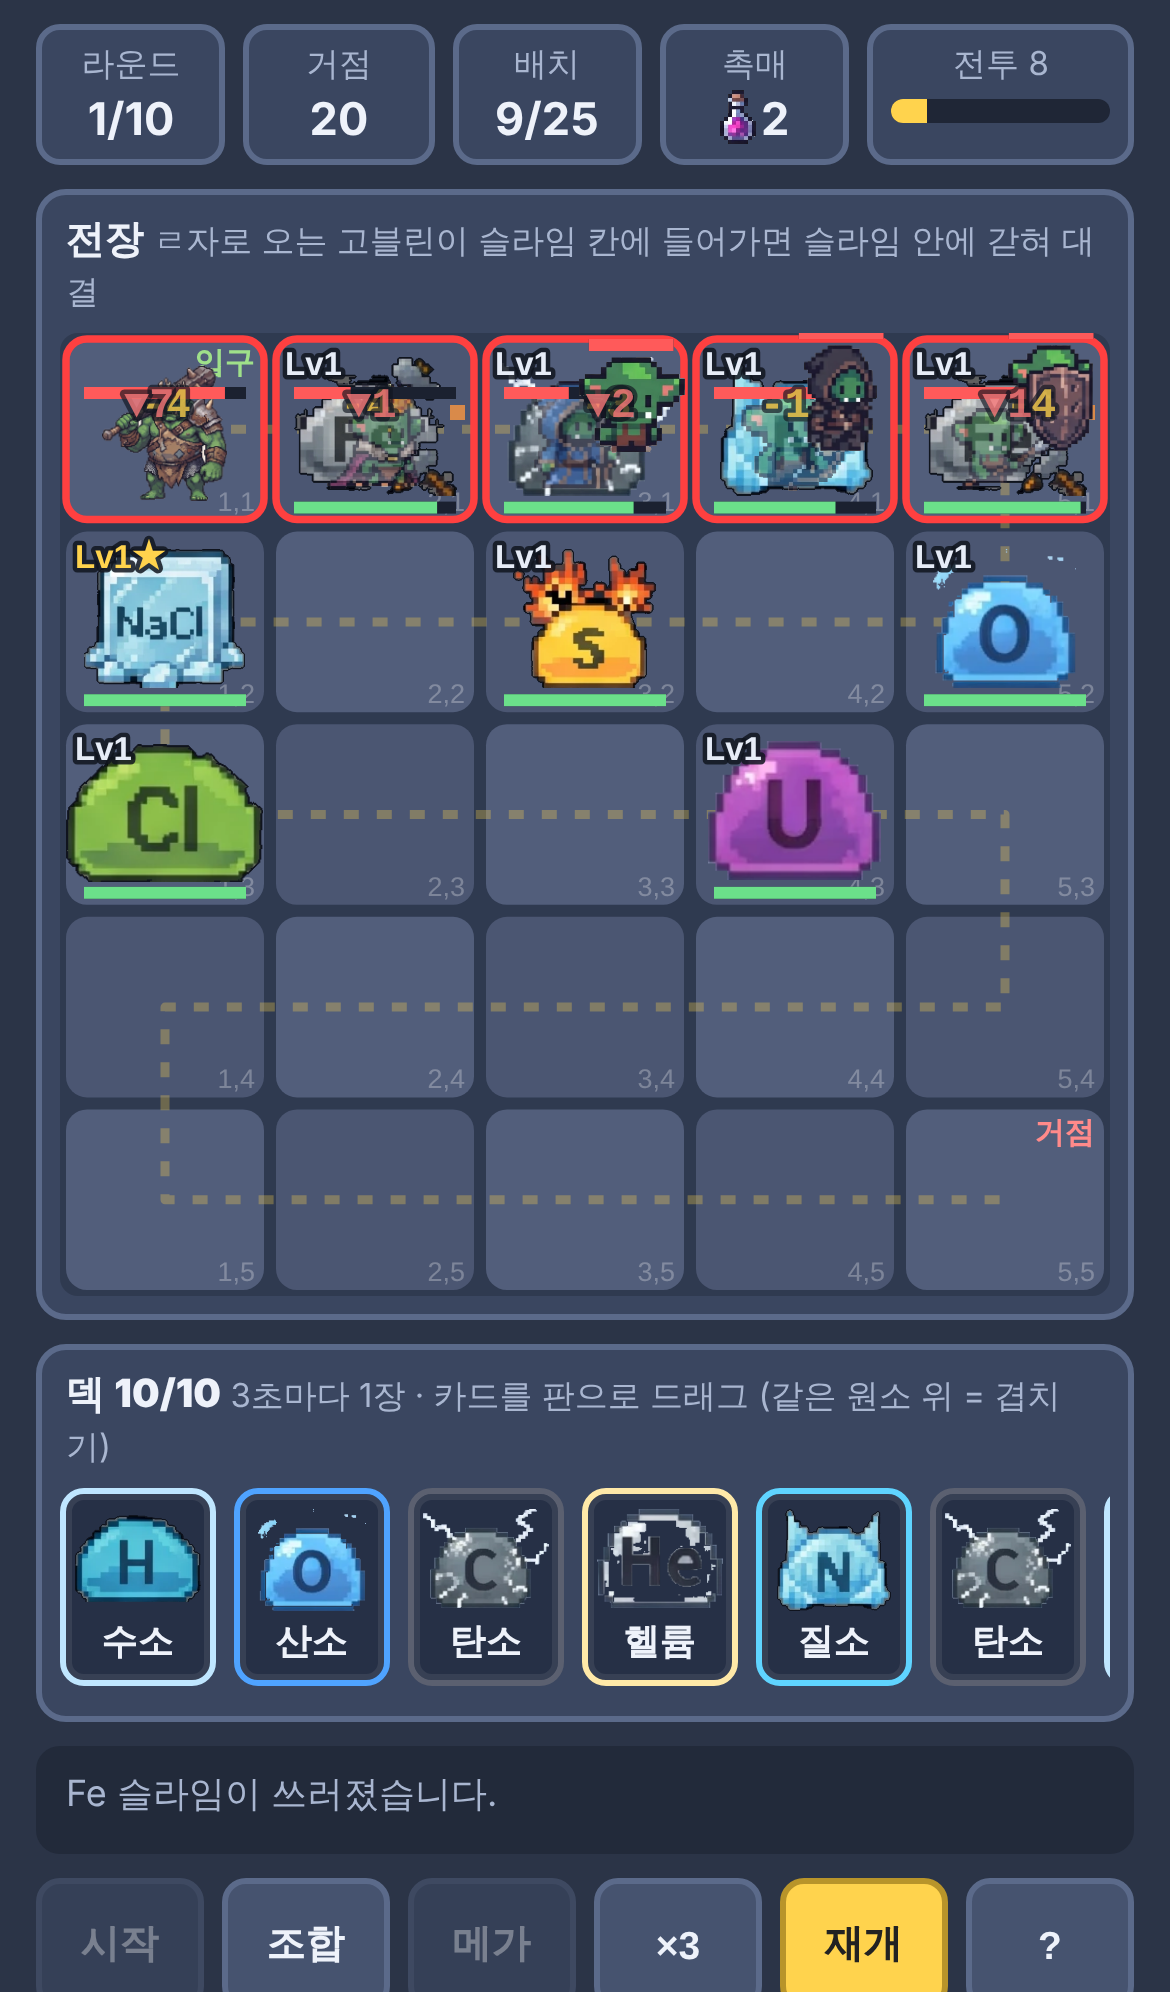
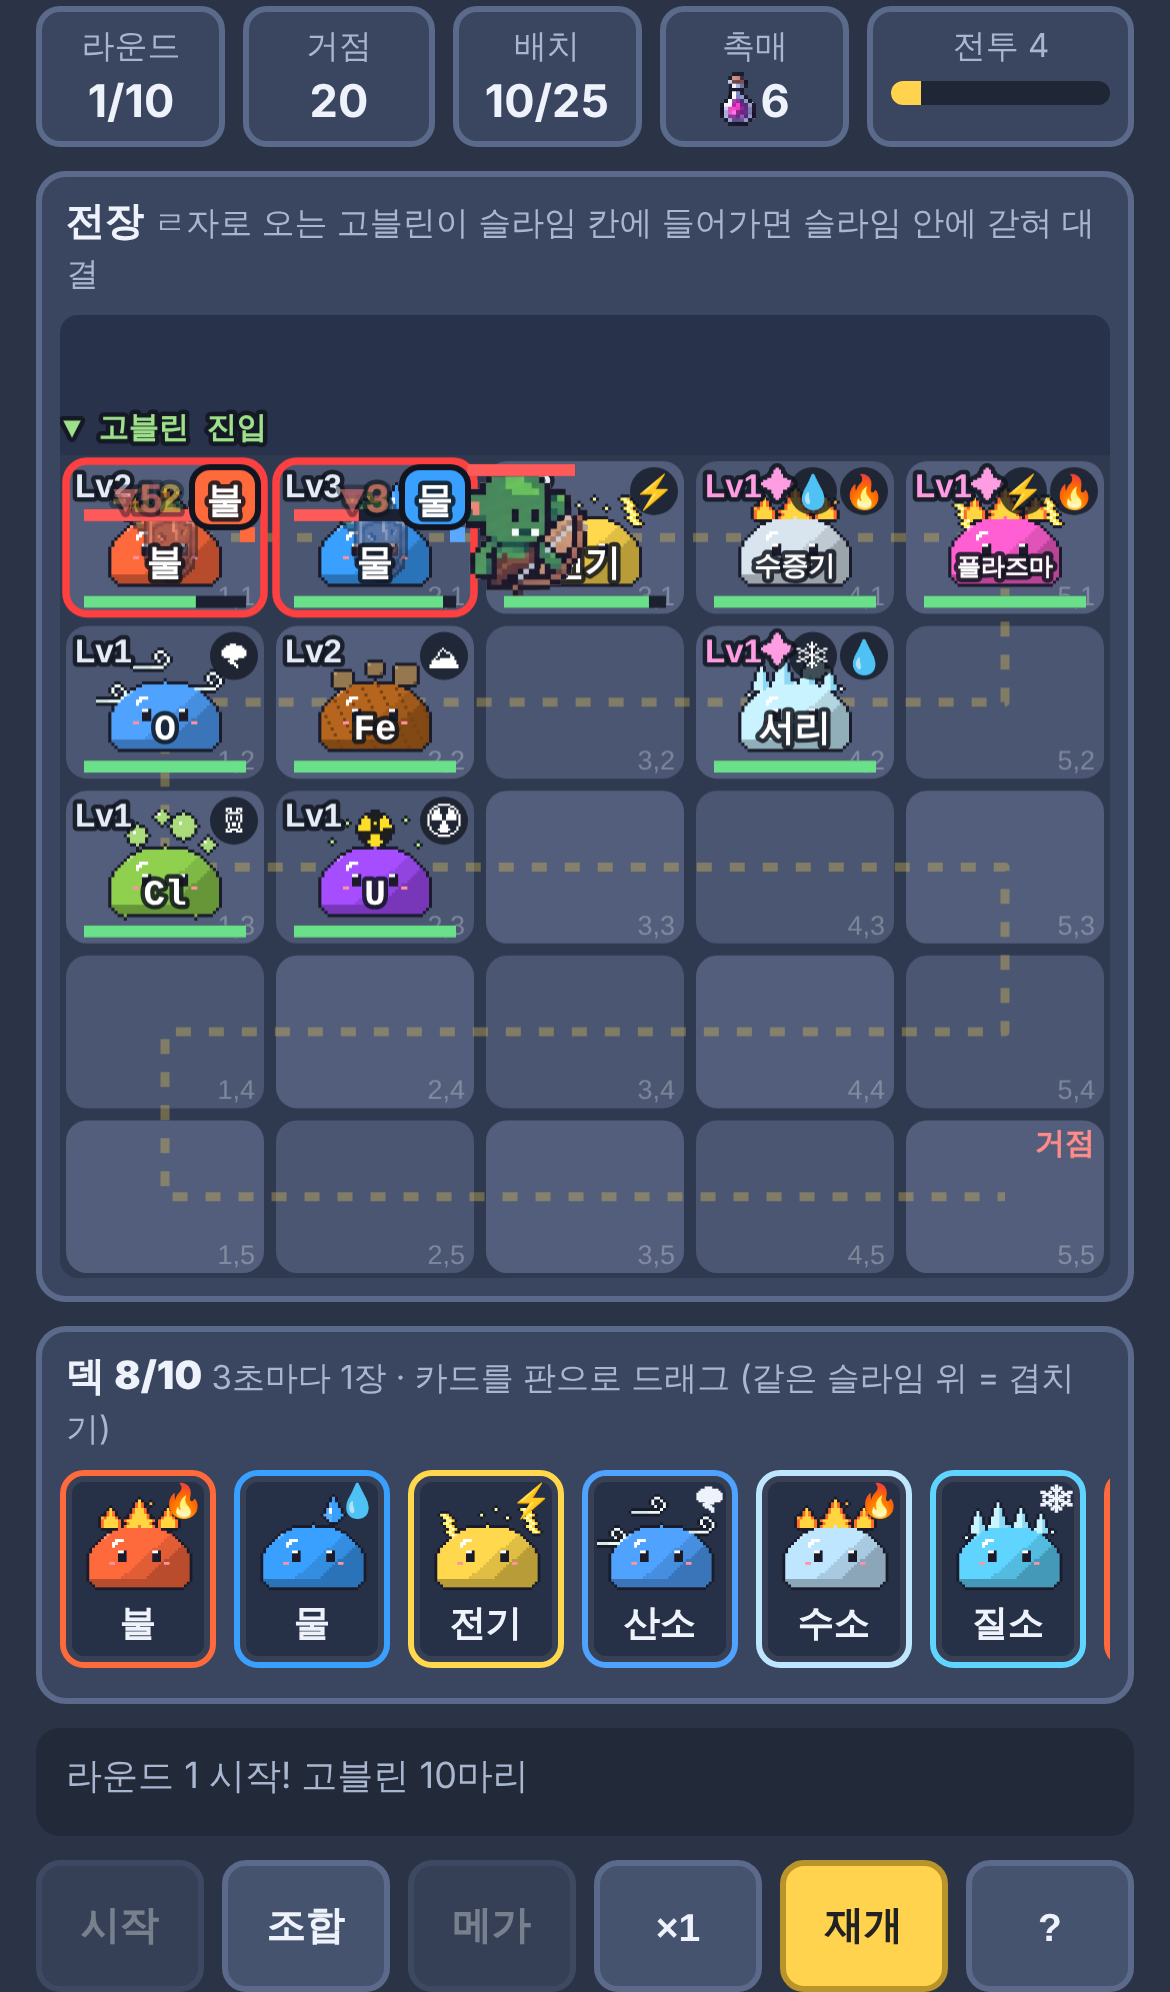
슬라임 이미지 전면 재생성 (코드 기반 픽셀아트, 화풍 통일)
- tools/gen_slimes.py: 44x36 픽셀 격자 생성기 (돔 몸통, 3단 음영, 눈·홍조, 외곽선)
  속성별 장식: 불꽃/물방울/번개/얼음가시/소용돌이/바위/독거품/방사능
- 29종 생성: 속성 3, 원소 10, 속성 합성 8, 화학 족보 6(반짝이), 혼합물, 메가(왕관)
- 그림에 글자를 넣지 않고 원소 기호·합성명은 게임이 덧그림
- extract_sprites.py는 고블린·아이템만 추출하도록 변경
- SW 캐시 v0.8.0 (assets 전체 목록 갱신)

Claude-Session: https://claude.ai/code/session_01VoCZM7DGkmV39ftWkPMHK3

diff --git a/src/sprites.js b/src/sprites.js
@@ -151,10 +151,14 @@ export function drawSprite(ctx, spr, cx, bottom, maxW, maxH) {
 // ---------- 참고 이미지에서 잘라낸 스프라이트 (assets/*.png) ----------
 // 로드 전이거나 실패하면 위의 도트 격자 스프라이트로 대체한다.
 const IMG = {};
+// 슬라임은 tools/gen_slimes.py가 생성(글자 없음, 원소 기호는 게임이 덧그림)
+const SLIME_KEYS = ['FIRE', 'WATER', 'ELEC', 'O', 'H', 'C', 'N', 'Fe', 'He', 'Na', 'Cl', 'S', 'U',
+  'STEAM', 'PLASMA', 'SHOCK', 'FROST', 'STORM', 'MUD', 'MIASMA', 'FUSION',
+  'H2O', 'CO2', 'NaCl', 'NH3', 'Fe2O3', 'H2SO4', 'mix', 'mega'];
 export const ASSET_NAMES = [
   'goblin', 'goblin_frozen', 'goblin_normal', 'goblin_fighter', 'goblin_mage', 'goblin_rider',
-  'goblin_archer', 'goblin_captain', 'goblin_giant', 'goblin_smart', 'goblin_giant_walk', 'slime_mega', 'slime_mix', 'slime_H2O', 'slime_NH3', 'slime_NaCl',
-  'slime_O', 'slime_H', 'slime_C', 'slime_N', 'slime_He', 'slime_Fe', 'slime_Na', 'slime_Cl', 'slime_S', 'slime_U',
+  'goblin_archer', 'goblin_captain', 'goblin_giant', 'goblin_smart', 'goblin_giant_walk',
+  ...SLIME_KEYS.map(k => 'slime_' + k),
 ];
 export function loadAssets(base = 'assets/') {
   return Promise.all(ASSET_NAMES.map(n => new Promise(res => {
@@ -175,17 +179,15 @@ function fit(ctx, img, cx, bottom, maxW, maxH) {
 
 // 반환: { rect, label } — label이 있으면 호출측이 이름표를 덧그린다(이미지에 글자가 없는 경우)
 export function drawSlimeArt(ctx, sl, cx, bottom, maxW, maxH) {
-  let img = null, label = null;
-  if (sl.kind === 'mega') { img = IMG.slime_mega; label = sl.label; }
-  else if (sl.kind === 'element') img = IMG['slime_' + sl.key];
-  else if (sl.kind === 'mixture') { img = IMG.slime_mix; label = sl.label; }
-  else if (IMG['slime_' + sl.key]) img = IMG['slime_' + sl.key];
-  else { img = IMG['slime_' + sl.els[0]]; label = sl.label; }
+  const img = sl.kind === 'mega' ? IMG.slime_mega
+    : sl.kind === 'mixture' ? IMG.slime_mix
+    : IMG['slime_' + sl.key] || IMG['slime_' + sl.els[0]] || null;
   if (!img) {
     const rect = drawSprite(ctx, slimeSprite(sl.color, sl.color2), cx, bottom, maxW, maxH * 0.85);
     return { rect, label: sl.label };
   }
-  return { rect: fit(ctx, img, cx, bottom, maxW, maxH), label };
+  // 생성 이미지에는 글자가 없으므로 항상 이름표(원소 기호/합성명)를 덧그린다
+  return { rect: fit(ctx, img, cx, bottom, maxW, maxH), label: sl.label };
 }
 
 // 빙결: 종류별 이미지에 얼음색을 덧입힌 사본을 캐시

diff --git a/sw.js b/sw.js
@@ -1,10 +1,50 @@
 // 앱 셸 캐시. 파일 변경 시 VERSION을 올리면 구버전 캐시가 삭제된다.
-const VERSION = 'esd-v0.7.0';
+const VERSION = 'esd-v0.8.0';
 const ASSETS = [
   './', './index.html', './manifest.json',
   './src/style.css', './src/main.js', './src/engine.js', './src/data.js', './src/sprites.js',
   './icons/icon.svg',
-  './assets/goblin.png', './assets/goblin_normal.png', './assets/goblin_fighter.png', './assets/goblin_mage.png', './assets/goblin_rider.png', './assets/goblin_archer.png', './assets/goblin_captain.png', './assets/goblin_giant.png', './assets/goblin_smart.png', './assets/goblin_giant_walk.png', './assets/item_catalyst.png', './assets/goblin_frozen.png', './assets/slime_mega.png', './assets/slime_mix.png', './assets/slime_H2O.png', './assets/slime_NH3.png', './assets/slime_NaCl.png', './assets/slime_O.png', './assets/slime_H.png', './assets/slime_C.png', './assets/slime_N.png', './assets/slime_He.png', './assets/slime_Fe.png', './assets/slime_Na.png', './assets/slime_Cl.png', './assets/slime_S.png', './assets/slime_U.png', './icons/icon-192.png', './icons/icon-512.png',
+  './assets/goblin.png',
+  './assets/goblin_archer.png',
+  './assets/goblin_captain.png',
+  './assets/goblin_fighter.png',
+  './assets/goblin_frozen.png',
+  './assets/goblin_giant.png',
+  './assets/goblin_giant_walk.png',
+  './assets/goblin_mage.png',
+  './assets/goblin_normal.png',
+  './assets/goblin_rider.png',
+  './assets/goblin_smart.png',
+  './assets/item_catalyst.png',
+  './assets/slime_C.png',
+  './assets/slime_CO2.png',
+  './assets/slime_Cl.png',
+  './assets/slime_ELEC.png',
+  './assets/slime_FIRE.png',
+  './assets/slime_FROST.png',
+  './assets/slime_FUSION.png',
+  './assets/slime_Fe.png',
+  './assets/slime_Fe2O3.png',
+  './assets/slime_H.png',
+  './assets/slime_H2O.png',
+  './assets/slime_H2SO4.png',
+  './assets/slime_He.png',
+  './assets/slime_MIASMA.png',
+  './assets/slime_MUD.png',
+  './assets/slime_N.png',
+  './assets/slime_NH3.png',
+  './assets/slime_Na.png',
+  './assets/slime_NaCl.png',
+  './assets/slime_O.png',
+  './assets/slime_PLASMA.png',
+  './assets/slime_S.png',
+  './assets/slime_SHOCK.png',
+  './assets/slime_STEAM.png',
+  './assets/slime_STORM.png',
+  './assets/slime_U.png',
+  './assets/slime_WATER.png',
+  './assets/slime_mega.png',
+  './assets/slime_mix.png',
 ];
 self.addEventListener('install', e => {
   e.waitUntil(caches.open(VERSION).then(c => c.addAll(ASSETS)).then(() => self.skipWaiting()));

diff --git a/src/main.js b/src/main.js
@@ -196,7 +196,7 @@ function drawBoard() {
         goblinStatus(ctx, gb, X + cw - 10, Y + 24);
         ctx.strokeStyle = '#ff4040'; ctx.lineWidth = 2.5; roundRect(ctx, X + 2, Y + 2, cw - 4, ch - 4, 7); ctx.stroke();
       }
-      if (art.label) pixelText(ctx, art.label, X + cw / 2, art.rect.y + art.rect.h * 0.75, Math.round(Math.min(cw, ch) * (art.label.length > 3 ? 0.15 : 0.2)), '#ffffff');
+      if (art.label) pixelText(ctx, art.label, X + cw / 2, art.rect.y + art.rect.h * 0.86, Math.round(Math.min(cw, ch) * (art.label.length > 3 ? 0.15 : art.label.length > 2 ? 0.17 : 0.21)), '#ffffff');
       if (trapped.some(gb => !isBig(gb))) badges.push([sl, X, Y]);
       lvTag(ctx, sl, X, Y);
       if (!trapped.length) attrIcons(ctx, sl, X, Y, cw);

diff --git a/tools/gen_slimes.py b/tools/gen_slimes.py
@@ -1,0 +1,264 @@
+"""코드 기반 픽셀아트 슬라임 생성기 (화풍 통일용).
+사용: python3 tools/gen_slimes.py [출력폴더=assets]
+- 44x36 픽셀 격자에 그린 뒤 4배 최근접 확대 -> 176x144 PNG
+- 몸통: 돔형, 좌상단 광원(하이라이트/그림자 3단), 눈 2개
+- 속성 장식: 불꽃/물방울/번개/얼음가시/바람소용돌이/바위/독거품/방사능
+- 원소 기호는 게임에서 글자로 덧그린다(그림에는 넣지 않음)
+"""
+import math
+import os
+import sys
+from PIL import Image
+
+W, H, SCALE = 44, 36, 4
+OUTLINE = (26, 28, 44, 255)
+OUT = sys.argv[1] if len(sys.argv) > 1 else 'assets'
+
+
+def hexc(h):
+    h = h.lstrip('#')
+    return tuple(int(h[i:i + 2], 16) for i in (0, 2, 4)) + (255,)
+
+
+def mix(c, d, t):
+    return tuple(round(c[i] + (d[i] - c[i]) * t) for i in range(3)) + (255,)
+
+
+def light(c, t):
+    return mix(c, (255, 255, 255), t)
+
+
+def dark(c, t):
+    return mix(c, (0, 0, 0), t)
+
+
+class Canvas:
+    def __init__(self):
+        self.px = {}
+
+    def put(self, x, y, c):
+        if 0 <= x < W and 0 <= y < H:
+            self.px[(x, y)] = c
+
+    def get(self, x, y):
+        return self.px.get((x, y))
+
+    def rect(self, x0, y0, w, h, c):
+        for y in range(y0, y0 + h):
+            for x in range(x0, x0 + w):
+                self.put(x, y, c)
+
+    def outline(self):
+        add = {}
+        for (x, y) in list(self.px):
+            for dx, dy in ((1, 0), (-1, 0), (0, 1), (0, -1)):
+                p = (x + dx, y + dy)
+                if p not in self.px and 0 <= p[0] < W and 0 <= p[1] < H:
+                    add[p] = OUTLINE
+        self.px.update(add)
+
+    def image(self):
+        im = Image.new('RGBA', (W, H), (0, 0, 0, 0))
+        for (x, y), c in self.px.items():
+            im.putpixel((x, y), c)
+        return im.resize((W * SCALE, H * SCALE), Image.NEAREST)
+
+
+# ---------- 몸통 ----------
+def body(cv, c1, c2=None, top=12, bottom=33, R=17, cx=22, eyes=True, texture=None):
+    """돔형 슬라임 몸통. c2가 있으면 좌->우 2색 그라데이션(합성 슬라임)."""
+    h = bottom - top
+    inside = set()
+    for y in range(top, bottom + 1):
+        t = (y - top) / h
+        hw = R * math.sqrt(max(0.0, 1 - ((0.62 - t) / 0.62) ** 2)) if t < 0.62 else R
+        if y == bottom:
+            hw -= 2
+        elif y == bottom - 1:
+            hw -= 1
+        for x in range(round(cx - hw), round(cx + hw) + 1):
+            inside.add((x, y))
+    for (x, y) in inside:
+        base = c1 if c2 is None else mix(c1, c2, (x - (cx - R)) / (2 * R))
+        dx, dy = (x - cx) / R, (y - top) / h
+        shade = dx * 0.8 + dy * 1.1  # 좌상단 광원
+        if y >= bottom - 2 or shade > 1.05:
+            col = dark(base, 0.28)
+        elif shade > 0.65:
+            col = dark(base, 0.12)
+        elif shade < -0.35:
+            col = light(base, 0.32)
+        else:
+            col = base
+        if texture == 'rock' and (x * 7 + y * 13) % 11 == 0:
+            col = dark(base, 0.35)
+        if texture == 'mottle' and (x * 5 + y * 3) % 7 == 0:
+            col = light(base, 0.2)
+        cv.put(x, y, col)
+    # 하이라이트(광택)
+    hx, hy = cx - round(R * 0.5), top + round(h * 0.22)
+    for x, y in ((hx, hy), (hx + 1, hy), (hx + 2, hy), (hx, hy + 1), (hx - 1, hy + 1), (hx - 1, hy + 2)):
+        if (x, y) in inside:
+            cv.put(x, y, (255, 255, 255, 255))
+    if eyes:
+        ey = top + round(h * 0.42)
+        for ex in (cx - 7, cx + 5):
+            cv.rect(ex, ey, 3, 4, (27, 27, 42, 255))
+            cv.put(ex, ey, (255, 255, 255, 255))
+            cv.put(ex + 1, ey, (255, 255, 255, 255))
+        # 볼 홍조
+        for bx in (cx - 10, cx + 9):
+            cv.put(bx, ey + 4, light((255, 120, 140, 255), 0.2)); cv.put(bx + 1, ey + 4, light((255, 120, 140, 255), 0.2))
+    return inside
+
+
+# ---------- 속성 장식 ----------
+def deco_fire(cv, c, top=12, cx=22):
+    flame = [(0, 0), (0, -1), (0, -2), (1, -1), (-1, 0), (1, 0), (0, -3)]
+    for fx, h in ((cx - 10, 7), (cx, 10), (cx + 10, 7)):
+        for k in range(h):
+            w = max(0, (h - k) // 2 - (1 if k < 2 else 0)) + (1 if k < 3 else 0)
+            for x in range(fx - w, fx + w + 1):
+                col = (255, 214, 64, 255) if abs(x - fx) < w or k > h - 2 else (255, 106, 40, 255)
+                cv.put(x, top - k, col)
+    for x, y in ((cx - 13, top - 3), (cx + 13, top - 5), (cx + 4, top - 8)):
+        cv.put(x, y, (255, 180, 60, 255))
+    _ = flame
+
+
+def deco_water(cv, c, top=12, cx=22):
+    # 머리 위 물방울
+    dx, dy = cx + 7, top - 10
+    for k in range(9):
+        w = [0, 0, 1, 1, 2, 2, 3, 2, 1][k]
+        for x in range(dx - w, dx + w + 1):
+            cv.put(x, dy + k, light(c, 0.15) if x < dx else c)
+    cv.put(dx - 1, dy + 4, (255, 255, 255, 255)); cv.put(dx - 1, dy + 5, (255, 255, 255, 255))
+    # 몸통 물결 하이라이트
+    for x in range(cx - 10, cx + 10):
+        if (x // 2) % 2 == 0:
+            cv.put(x, top + 15, light(c, 0.45))
+
+
+def deco_elec(cv, c, top=12, cx=22):
+    bolt = [(0, 0), (1, 1), (2, 2), (1, 3), (2, 4), (3, 5), (2, 6), (3, 7), (4, 8)]
+    for bx, by in ((cx + 12, top - 6), (cx - 16, top - 4)):
+        for x, y in bolt:
+            cv.put(bx + x, by + y, (255, 238, 90, 255))
+            cv.put(bx + x + 1, by + y, (255, 255, 200, 255))
+            cv.put(bx + x + 2, by + y, (255, 210, 40, 255))
+    for x, y in ((cx - 2, top - 4), (cx + 3, top - 6), (cx + 7, top - 3)):
+        cv.put(x, y, (255, 255, 160, 255))
+
+
+def deco_ice(cv, c, top=12, cx=22):
+    for sx, h in ((cx - 11, 8), (cx - 4, 11), (cx + 4, 9), (cx + 11, 7)):
+        for k in range(h):
+            w = (h - k) // 3
+            for x in range(sx - w, sx + w + 1):
+                cv.put(x, top + 2 - k, (200, 245, 255, 255) if x <= sx else (140, 215, 245, 255))
+    for x, y in ((cx - 15, top + 4), (cx + 15, top + 2)):
+        cv.put(x, y, (230, 250, 255, 255))
+
+
+def deco_wind(cv, c, top=12, cx=22):
+    swirl = [(0, 0), (1, 0), (2, 0), (3, 0), (4, -1), (5, -2), (5, -3), (4, -4), (3, -5), (2, -5), (1, -4), (1, -3), (2, -2)]
+    for ox, oy in ((cx - 18, top + 6), (cx + 13, top + 2), (cx - 4, top - 5)):
+        for x, y in swirl:
+            cv.put(ox + x, oy + y, (235, 250, 245, 255))
+        for k in range(6):
+            cv.put(ox - k - 1, oy, (210, 235, 230, 255))
+
+
+def deco_earth(cv, c, top=12, cx=22):
+    for rx, ry, s in ((cx - 13, top - 3, 6), (cx + 7, top - 5, 7), (cx - 2, top - 6, 5)):
+        cv.rect(rx, ry, s, s - 1, (150, 120, 80, 255))
+        cv.put(rx, ry, (190, 160, 110, 255))
+        cv.put(rx + s - 1, ry + s - 2, (100, 78, 50, 255))
+
+
+def deco_poison(cv, c, top=12, cx=22):
+    for bx, by, r in ((cx - 9, top - 4, 3), (cx + 6, top - 7, 4), (cx + 14, top - 1, 2), (cx - 1, top - 10, 2)):
+        for y in range(by - r, by + r + 1):
+            for x in range(bx - r, bx + r + 1):
+                if (x - bx) ** 2 + (y - by) ** 2 <= r * r + 0.5:
+                    cv.put(x, y, light(c, 0.25))
+        cv.put(bx - (r > 1), by - (r > 1), (255, 255, 255, 255))
+    # 흘러내림
+    for x in (cx - 13, cx + 10):
+        for k in range(3):
+            cv.put(x, 33 + k - 1, dark(c, 0.15))
+
+
+def deco_rad(cv, c, top=12, cx=22):
+    # 머리 위 방사능 표식(작은 삼엽) + 빛 입자
+    ox, oy = cx, top - 6
+    for x in range(ox - 5, ox + 6):
+        for y in range(oy - 5, oy + 6):
+            d = math.hypot(x - ox, y - oy)
+            ang = (math.degrees(math.atan2(y - oy, x - ox)) + 360) % 120
+            if d <= 1.5:
+                cv.put(x, y, (30, 30, 30, 255))
+            elif 2.2 <= d <= 5.2 and ang < 60:
+                cv.put(x, y, (30, 30, 30, 255))
+            elif d <= 5.2:
+                cv.put(x, y, (255, 222, 40, 255))
+    for x, y in ((cx - 14, top - 2), (cx + 14, top - 1), (cx - 9, top - 8), (cx + 10, top - 9)):
+        cv.put(x, y, (190, 255, 120, 255))
+
+
+DECO = {'fire': deco_fire, 'water': deco_water, 'elec': deco_elec, 'ice': deco_ice,
+        'wind': deco_wind, 'earth': deco_earth, 'poison': deco_poison, 'rad': deco_rad}
+
+
+def make(color, attrs, color2=None, texture=None, crown=False, sparkle=False):
+    cv = Canvas()
+    c1 = hexc(color)
+    c2 = hexc(color2) if color2 else None
+    # 장식은 몸통 뒤(위쪽)에 먼저, 몸통이 앞을 덮는다
+    for i, a in enumerate(attrs[:2]):
+        DECO[a](cv, c1 if i == 0 else (c2 or c1))
+    body(cv, c1, c2, texture=texture)
+    if crown:
+        for x in range(14, 31):
+            cv.put(x, 9, (255, 205, 50, 255))
+            cv.put(x, 10, (220, 160, 30, 255))
+        for x in (14, 18, 22, 26, 30):
+            for k in range(3):
+                cv.put(x, 8 - k, (255, 215, 60, 255))
+        cv.put(22, 10, (230, 60, 80, 255))
+    if sparkle:  # 화학 족보(화합물): 반짝이 별
+        for sx, sy in ((5, 6), (38, 10)):
+            for x, y in ((0, 0), (1, 0), (-1, 0), (0, 1), (0, -1)):
+                cv.put(sx + x, sy + y, (255, 240, 150, 255))
+    cv.outline()
+    return cv.image()
+
+
+def main():
+    sys.path.insert(0, os.path.dirname(__file__))
+    import json
+    import subprocess
+    # data.js에서 원소/합성/족보 목록을 읽는다 (Node로 JSON 출력)
+    js = ("import('./src/data.js').then(d=>console.log(JSON.stringify({el:d.ELEMENTS,fu:d.FUSIONS,"
+          "rc:d.RECIPES.map(r=>({key:r.key,color:r.color,need:r.need}))})))")
+    data = json.loads(subprocess.check_output(['node', '-e', js], cwd=os.path.join(os.path.dirname(__file__), '..')))
+    attr_of = {e['sym']: e['attr'] for e in data['el']}
+    os.makedirs(OUT, exist_ok=True)
+    made = []
+    for e in data['el']:
+        tex = 'rock' if e['attr'] == 'earth' else None
+        make(e['color'], [e['attr']], texture=tex).save(f"{OUT}/slime_{e['sym']}.png"); made.append(e['sym'])
+    for f in data['fu']:
+        a, b = f['pair']
+        make(f['color'], [a, b], color2=None).save(f"{OUT}/slime_{f['key']}.png"); made.append(f['key'])
+    for r in data['rc']:
+        attrs = list(dict.fromkeys(attr_of[k] for k in r['need']))
+        make(r['color'], attrs, sparkle=True).save(f"{OUT}/slime_{r['key']}.png"); made.append(r['key'])
+    make('#9aa3b5', ['earth'], texture='mottle').save(f"{OUT}/slime_mix.png"); made.append('mix')
+    make('#5fc8ff', ['water'], crown=True).save(f"{OUT}/slime_mega.png"); made.append('mega')
+    print(len(made), 'slimes:', ' '.join(made))
+
+
+if __name__ == '__main__':
+    main()

diff --git a/tools/extract_sprites.py b/tools/extract_sprites.py
@@ -148,6 +148,8 @@ def remove_bg(im, tol):
 
 VIDEO_MODE = len(sys.argv) > 3 and sys.argv[3] == 'video'
 for name, (f, x0, y0, x1, y1, disp, tol) in ({} if VIDEO_MODE else BOXES).items():
+    if name.startswith('slime_'):
+        continue  # 슬라임은 tools/gen_slimes.py로 생성 (화풍 통일). 참고 이미지 추출은 고블린·아이템만
     im = Image.open(f'{SRC}/{f}').convert('RGB')
     k = S if disp else 1
     crop = im.crop((round(x0 * k), round(y0 * k), round(x1 * k), round(y1 * k)))
